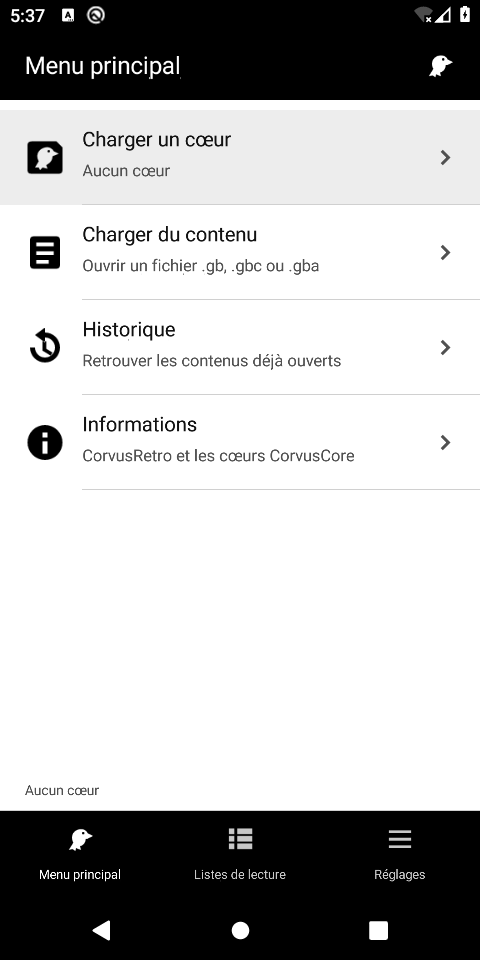
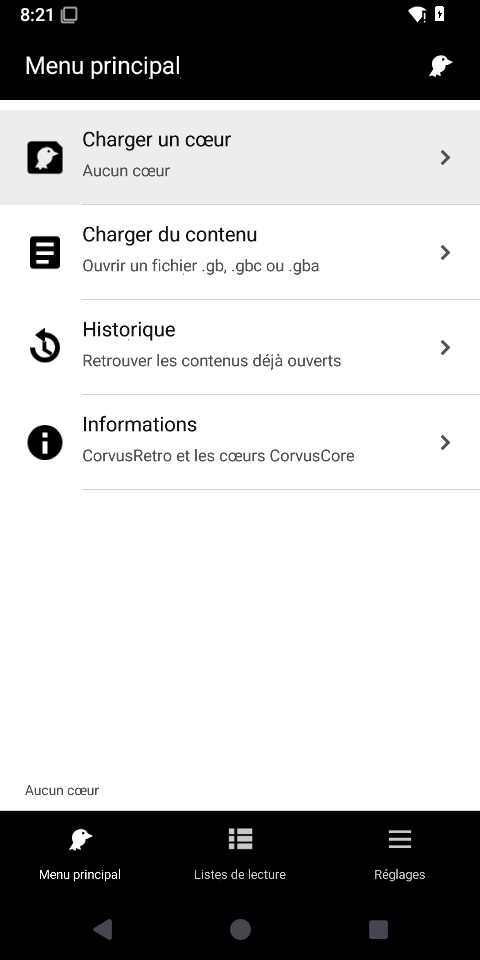
Fix Android system bar insets and remove obsolete dark theme

diff --git a/app/src/main/java/com/corvussoftware/corvusretro/MainActivity.java b/app/src/main/java/com/corvussoftware/corvusretro/MainActivity.java
@@ -8,10 +8,15 @@ import android.content.Intent;
 import android.graphics.Bitmap;
 import android.graphics.Canvas;
 import android.graphics.Color;
+import android.graphics.Insets;
 import android.graphics.Paint;
 import android.graphics.Typeface;
 import android.graphics.drawable.Drawable;
+import android.os.Build;
 import android.os.Bundle;
+import android.view.DisplayCutout;
+import android.view.View;
+import android.view.WindowInsets;
 import android.view.WindowManager;
 import java.io.ByteArrayOutputStream;
 import java.io.IOException;
@@ -38,6 +43,8 @@ public final class MainActivity extends NativeActivity {
     private boolean pickerOpen;
     private boolean copying;
     private int pickerSystem;
+    // Immutable snapshot published by the UI thread, read by the native render thread.
+    private volatile int[] windowArea;
 
     private static native void imported(String id, String title, int system, String path, String error);
 
@@ -49,7 +56,48 @@ public final class MainActivity extends NativeActivity {
             pickerSystem = state.getInt("picker_system", 0);
         }
         super.onCreate(state);
+        View decor = getWindow().getDecorView();
+        // Use the same full-window coordinate space on Android 8 through Android 15+.
+        // The C renderer reserves the system-provided safe area inside that surface.
+        decor.setSystemUiVisibility(decor.getSystemUiVisibility()
+                | View.SYSTEM_UI_FLAG_LAYOUT_STABLE | View.SYSTEM_UI_FLAG_LAYOUT_FULLSCREEN
+                | View.SYSTEM_UI_FLAG_LAYOUT_HIDE_NAVIGATION);
+        if (Build.VERSION.SDK_INT >= 28) {
+            WindowManager.LayoutParams attributes = getWindow().getAttributes();
+            attributes.layoutInDisplayCutoutMode = WindowManager.LayoutParams.LAYOUT_IN_DISPLAY_CUTOUT_MODE_SHORT_EDGES;
+            getWindow().setAttributes(attributes);
+        }
+        decor.setOnApplyWindowInsetsListener((view, insets) -> {
+            publishWindowArea(view, insets);
+            return insets;
+        });
+        decor.requestApplyInsets();
     }
+    @Override public void onGlobalLayout() {
+        super.onGlobalLayout();
+        View decor = getWindow().getDecorView();
+        WindowInsets insets = decor.getRootWindowInsets();
+        if (insets != null) publishWindowArea(decor, insets);
+    }
+    private void publishWindowArea(View decor, WindowInsets insets) {
+        int left, top, right, bottom;
+        if (Build.VERSION.SDK_INT >= 30) {
+            Insets safe = insets.getInsetsIgnoringVisibility(WindowInsets.Type.systemBars() | WindowInsets.Type.displayCutout());
+            left = safe.left; top = safe.top; right = safe.right; bottom = safe.bottom;
+        } else {
+            left = insets.getStableInsetLeft(); top = insets.getStableInsetTop();
+            right = insets.getStableInsetRight(); bottom = insets.getStableInsetBottom();
+            DisplayCutout cutout = Build.VERSION.SDK_INT >= 28 ? insets.getDisplayCutout() : null;
+            if (Build.VERSION.SDK_INT >= 28 && cutout != null) {
+                left = Math.max(left, cutout.getSafeInsetLeft()); top = Math.max(top, cutout.getSafeInsetTop());
+                right = Math.max(right, cutout.getSafeInsetRight()); bottom = Math.max(bottom, cutout.getSafeInsetBottom());
+            }
+        }
+        int width = decor.getWidth(), height = decor.getHeight();
+        if (width > left + right && height > top + bottom)
+            windowArea = new int[] {width, height, left, top, right, bottom};
+    }
+    public int[] safeWindowArea() { return windowArea; }
     @Override protected void onSaveInstanceState(Bundle state) {
         state.putBoolean("picker", pickerOpen); state.putInt("picker_system", pickerSystem);
         super.onSaveInstanceState(state);
@@ -81,7 +129,10 @@ public final class MainActivity extends NativeActivity {
             if ("theme".equals(key)) {
                 String value = library.preferences.getString(key, "corvus");
                 if ("shield".equals(value)) return 0;
-                if ("dark".equals(value)) return 1;
+                if ("dark".equals(value)) {
+                    library.preferences.edit().putString(key, "corvus").apply();
+                    return 2;
+                }
                 if ("corvus".equals(value)) return 2;
                 if ("asus".equals(value)) return 3;
                 return fallback;
@@ -92,8 +143,8 @@ public final class MainActivity extends NativeActivity {
     }
     public void preferenceSet(String key, int value) {
         if ("theme".equals(key)) {
-            String[] values = {"shield", "dark", "corvus", "asus"};
-            library.preferences.edit().putString(key, value >= 0 && value < values.length ? values[value] : "corvus").apply();
+            String selected = value == 0 ? "shield" : value == 3 ? "asus" : "corvus";
+            library.preferences.edit().putString(key, selected).apply();
         }
         else if ("audio".equals(key) || "keep_awake".equals(key)) library.preferences.edit().putBoolean(key, value != 0).apply();
         else library.preferences.edit().putInt(key, value).apply();

diff --git a/app/src/main/cpp/android_backend.c b/app/src/main/cpp/android_backend.c
@@ -2,6 +2,7 @@
 // Copyright (C) 2026 CorvusSoftware
 // SPDX-License-Identifier: AGPL-3.0-only
 #include "android_backend.h"
+#include "viewport.h"
 #include "engine.h"
 #include <android/bitmap.h>
 #include <android/log.h>
@@ -109,6 +110,7 @@ bool cr_android_init(cr_android *p, struct android_app *app) {
     if (clear_error(p) || !p->field)                                                               \
     return false
     METHOD(density, "density", "()F");
+    METHOD(safe_area, "safeWindowArea", "()[I");
     METHOD(atlas, "atlas", "()Landroid/graphics/Bitmap;");
     METHOD(advances, "advances", "()[F");
     METHOD(glyph, "glyph", "(I)Landroid/graphics/Bitmap;");
@@ -575,13 +577,28 @@ static void game(void *ctx, const uint32_t *pixels, int width, int height, float
     glBindTexture(GL_TEXTURE_2D, g->atlas);
     glUniform1f(g->mode, 0);
 }
-void cr_gl_begin(cr_gl *g) {
+void cr_gl_begin(cr_gl *g, uint32_t system_bar) {
     eglQuerySurface(g->display, g->surface, EGL_WIDTH, &g->full_width);
     eglQuerySurface(g->display, g->surface, EGL_HEIGHT, &g->full_height);
-    ARect r = g->platform->app->contentRect;
-    if (r.right <= r.left || r.bottom <= r.top || r.right > g->full_width ||
-        r.bottom > g->full_height)
-        r = (ARect){0, 0, g->full_width, g->full_height};
+    cr_android *p = g->platform;
+    ARect content = p->app->contentRect;
+    jint area[6];
+    jintArray snapshot = (*p->env)->CallObjectMethod(p->env, p->app->activity->clazz, p->safe_area);
+    bool valid = !clear_error(p) && snapshot && (*p->env)->GetArrayLength(p->env, snapshot) == 6;
+    if (valid) {
+        (*p->env)->GetIntArrayRegion(p->env, snapshot, 0, 6, area);
+        valid = !clear_error(p);
+    }
+    if (snapshot)
+        (*p->env)->DeleteLocalRef(p->env, snapshot);
+    cr_rect r = cr_viewport(g->full_width, g->full_height, valid ? area : NULL,
+                            (cr_rect){content.left, content.top, content.right, content.bottom});
+#ifndef NDEBUG
+    if (g->left != r.left || g->top != r.top || g->pixel_width != r.right - r.left ||
+        g->pixel_height != r.bottom - r.top)
+        __android_log_print(ANDROID_LOG_DEBUG, "CorvusRetro", "viewport surface=%dx%d safe=%d,%d,%d,%d",
+                            g->full_width, g->full_height, r.left, r.top, r.right, r.bottom);
+#endif
     g->left = r.left;
     g->top = r.top;
     g->pixel_width = r.right - r.left;
@@ -590,7 +607,8 @@ void cr_gl_begin(cr_gl *g) {
     g->width = g->pixel_width / g->density;
     g->height = g->pixel_height / g->density;
     glDisable(GL_SCISSOR_TEST);
-    glClearColor(0, 0, 0, 1);
+    glClearColor(((system_bar >> 16) & 255) / 255.f, ((system_bar >> 8) & 255) / 255.f,
+                 (system_bar & 255) / 255.f, 1);
     glClear(GL_COLOR_BUFFER_BIT);
     glViewport(g->left, g->full_height - r.bottom, g->pixel_width, g->pixel_height);
     glUseProgram(g->program);

diff --git a/app/src/main/cpp/theme.c b/app/src/main/cpp/theme.c
@@ -2,7 +2,7 @@
 // Copyright (C) 2026 CorvusSoftware
 // SPDX-License-Identifier: AGPL-3.0-only
 #include "theme.h"
-static const cr_theme themes[CR_THEME_COUNT] = {
+static const cr_theme themes[CR_THEME_ASUS + 1] = {
     [CR_THEME_SHIELD] = {.name = "NVIDIA Shield",
                          .description = "Noir et vert",
                          .background = 0xff121212,
@@ -24,27 +24,6 @@ static const cr_theme themes[CR_THEME_COUNT] = {
                          .control_text = 0xffdedede,
                          .control_pressed_text = 0xff101a08,
                          .system_bar = 0xff000000},
-    [CR_THEME_DARK] = {.name = "MaterialUI sombre",
-                       .description = "Anthracite et bleu",
-                       .background = 0xff202124,
-                       .header = 0xff292b30,
-                       .surface = 0xff292b30,
-                       .navigation = 0xff292b30,
-                       .text = 0xfff1f3f4,
-                       .muted = 0xffa4abb5,
-                       .accent = 0xff81c7ff,
-                       .icon = 0xffa4abb5,
-                       .divider = 0xff36383e,
-                       .focus = 0xff243b50,
-                       .header_text = 0xfff1f3f4,
-                       .header_hint = 0xffa4abb5,
-                       .header_icon = 0xff81c7ff,
-                       .navigation_active = 0xff81c7ff,
-                       .navigation_passive = 0xffa4abb5,
-                       .control = 0xcc40444b,
-                       .control_text = 0xfff1f3f4,
-                       .control_pressed_text = 0xff101820,
-                       .system_bar = 0xff292b30},
     [CR_THEME_CORVUS] = {.name = "CorvusRetro",
                          .description = "Bleu nuit et violet du corbeau",
                          .background = 0xff090d14,
@@ -88,11 +67,11 @@ static const cr_theme themes[CR_THEME_COUNT] = {
                        .control_pressed_text = 0xffffffff,
                        .system_bar = 0xff000000}};
 int cr_theme_valid(int id) {
-    return id >= 0 && id < CR_THEME_COUNT ? id : CR_THEME_CORVUS;
+    return id == CR_THEME_SHIELD || id == CR_THEME_CORVUS || id == CR_THEME_ASUS ? id
+                                                                                 : CR_THEME_CORVUS;
 }
 int cr_theme_at(int index) {
-    static const int order[CR_THEME_COUNT] = {CR_THEME_CORVUS, CR_THEME_SHIELD, CR_THEME_DARK,
-                                              CR_THEME_ASUS};
+    static const int order[CR_THEME_COUNT] = {CR_THEME_CORVUS, CR_THEME_SHIELD, CR_THEME_ASUS};
     return index >= 0 && index < CR_THEME_COUNT ? order[index] : CR_THEME_CORVUS;
 }
 const cr_theme *cr_theme_get(int id) {

diff --git a/tests/native_viewport_test.c b/tests/native_viewport_test.c
@@ -1,0 +1,39 @@
+// CorvusRetro - CorvusSoftware
+// Copyright (C) 2026 CorvusSoftware
+// SPDX-License-Identifier: AGPL-3.0-only
+#include "viewport.h"
+#include <stdio.h>
+#include <stdlib.h>
+static void check(cr_rect r, int left, int top, int right, int bottom, const char *message) {
+    if (r.left != left || r.top != top || r.right != right || r.bottom != bottom) {
+        fprintf(stderr, "FAIL %s: %d,%d,%d,%d\n", message, r.left, r.top, r.right, r.bottom);
+        exit(1);
+    }
+}
+int main(void) {
+    cr_rect full = {0, 0, 576, 1280};
+    int portrait[] = {576, 1280, 0, 36, 0, 72};
+    check(cr_viewport(576, 1280, portrait, full), 0, 36, 576, 1208,
+          "status and three-button navigation excluded from full NativeActivity surface");
+    int gesture[] = {576, 1280, 0, 54, 0, 24};
+    check(cr_viewport(576, 1280, gesture, full), 0, 54, 576, 1256,
+          "top cutout and gesture navigation use system pixel dimensions");
+    int landscape[] = {1280, 576, 54, 24, 72, 0};
+    check(cr_viewport(1280, 576, landscape, (cr_rect){0, 0, 1280, 576}), 54, 24, 1208, 576,
+          "landscape cutout and navigation reserve both sides");
+    check(cr_viewport(1280, 576, portrait, (cr_rect){0, 24, 1208, 576}), 0, 24, 1208, 576,
+          "rotation rejects stale portrait snapshot");
+    int no_bars[] = {480, 870, 0, 0, 0, 0};
+    check(cr_viewport(480, 870, no_bars, (cr_rect){0, 30, 480, 900}), 0, 0, 480, 870,
+          "already inset surface has no duplicate margins");
+    int invalid[] = {576, 1280, -1, 36, 0, 72};
+    check(cr_viewport(576, 1280, invalid, full), 0, 0, 576, 1280, "negative inset rejected");
+    invalid[2] = 576;
+    check(cr_viewport(576, 1280, invalid, full), 0, 0, 576, 1280, "empty safe area rejected");
+    check(cr_viewport(576, 1280, NULL, (cr_rect){0, 36, 576, 1208}), 0, 36, 576, 1208,
+          "initial NativeActivity content rectangle used before inset delivery");
+    check(cr_viewport(576, 1280, NULL, (cr_rect){0, 0, 0, 0}), 0, 0, 576, 1280,
+          "empty initial content rectangle handled");
+    puts("PASS native viewport");
+    return 0;
+}

diff --git a/tests/native_frontend_test.c b/tests/native_frontend_test.c
@@ -2,6 +2,7 @@
 // Copyright (C) 2026 CorvusSoftware
 // SPDX-License-Identifier: AGPL-3.0-only
 #include "frontend.h"
+#include "viewport.h"
 #include <stdio.h>
 #include <stdlib.h>
 #include <string.h>
@@ -41,7 +42,13 @@ int main(void) {
     check(u.theme == CR_THEME_CORVUS, "logo palette is the default without saved preference");
     check(cr_theme_valid(-1) == CR_THEME_CORVUS && cr_theme_valid(99) == CR_THEME_CORVUS,
           "unknown themes fall back safely");
-    check(CR_THEME_SHIELD == 0 && CR_THEME_DARK == 1, "published theme IDs retain compatibility");
+    check(CR_THEME_SHIELD == 0 && CR_THEME_CORVUS == 2 && CR_THEME_ASUS == 3,
+          "remaining published theme IDs retain compatibility");
+    check(cr_theme_valid(1) == CR_THEME_CORVUS, "retired theme falls back to Corvus");
+    check(CR_THEME_COUNT == 3 && cr_theme_at(0) == CR_THEME_CORVUS &&
+              cr_theme_at(1) == CR_THEME_SHIELD && cr_theme_at(2) == CR_THEME_ASUS &&
+              cr_theme_at(3) == CR_THEME_CORVUS,
+          "three active themes only");
     tap(&u, 100, 100);
     check(u.page == CR_CORES, "touch opens native core list");
     cr_ui_move(&u, 1);
@@ -63,11 +70,11 @@ int main(void) {
     check(u.page == CR_SETTINGS, "native bottom tab");
     tap(&u, 100, 100);
     check(u.page == CR_THEMES, "native theme list");
-    tap(&u, 100, 252);
-    check(theme == CR_THEME_DARK && u.theme == CR_THEME_DARK && u.page == CR_SETTINGS,
-          "legacy dark selection remains stable");
+    tap(&u, 100, 176);
+    check(theme == CR_THEME_SHIELD && u.theme == CR_THEME_SHIELD && u.page == CR_SETTINGS,
+          "Shield selection remains stable");
     tap(&u, 100, 100);
-    tap(&u, 100, 328);
+    tap(&u, 100, 252);
     check(theme == CR_THEME_ASUS && u.theme == CR_THEME_ASUS, "ASUS is selectable and saved");
     tap(&u, 100, 100);
     tap(&u, 100, 100);

diff --git a/app/src/main/cpp/viewport.c b/app/src/main/cpp/viewport.c
@@ -1,0 +1,16 @@
+// CorvusRetro - CorvusSoftware
+// Copyright (C) 2026 CorvusSoftware
+// SPDX-License-Identifier: AGPL-3.0-only
+#include "viewport.h"
+cr_rect cr_viewport(int width, int height, const int area[6], cr_rect content) {
+    /* Reject snapshots from before a rotation instead of applying stale side insets. */
+    if (area && area[0] == width && area[1] == height && area[2] >= 0 && area[3] >= 0 &&
+        area[4] >= 0 && area[5] >= 0 && area[2] < width && area[3] < height &&
+        area[4] < width - area[2] && area[5] < height - area[3])
+        return (cr_rect){area[2], area[3], width - area[4], height - area[5]};
+    /* NativeActivity contentRect is only a fallback before Java receives insets. */
+    if (content.left >= 0 && content.top >= 0 && content.right > content.left &&
+        content.bottom > content.top && content.right <= width && content.bottom <= height)
+        return content;
+    return (cr_rect){0, 0, width, height};
+}

diff --git a/app/src/main/cpp/android_backend.h b/app/src/main/cpp/android_backend.h
@@ -13,7 +13,7 @@ typedef struct {
     JNIEnv *env;
     jclass cls;
     bool attached;
-    jmethodID density, atlas, advances, glyph, advance, games, root, credits, preference,
+    jmethodID density, safe_area, atlas, advances, glyph, advance, games, root, credits, preference,
         set_preference, pick, finish, touch, appearance, quit;
 } cr_android;
 typedef struct {
@@ -42,7 +42,7 @@ void cr_android_root(cr_android *, char *, size_t);
 bool cr_android_import(cr_import *);
 bool cr_gl_init(cr_gl *, cr_android *);
 void cr_gl_destroy(cr_gl *);
-void cr_gl_begin(cr_gl *);
+void cr_gl_begin(cr_gl *, uint32_t system_bar);
 bool cr_gl_end(cr_gl *);
 cr_painter cr_gl_painter(cr_gl *);
 #endif

diff --git a/app/src/main/cpp/frontend.c b/app/src/main/cpp/frontend.c
@@ -759,7 +759,7 @@ void cr_ui_draw(cr_ui *u, const cr_painter *p) {
         if (u->page == CR_ABOUT)
             u->text_height =
                 paragraphs(p,
-                           "CorvusRetro 0.6.0\n\nFrontend original en C, rendu OpenGL ES et audio "
+                           "CorvusRetro 0.7.0\n\nFrontend original en C, rendu OpenGL ES et audio "
                            "AAudio.\n\nCorvusSoftware\nCœurs CorvusCore 0.14.0 : Game Boy, Game "
                            "Boy Color, Game Boy Advance (expérimental).\n\nNavigation inspirée de "
                            "MaterialUI. Thèmes CorvusRetro, ASUS, NVIDIA Shield et "

diff --git a/app/src/main/cpp/theme.h b/app/src/main/cpp/theme.h
@@ -4,8 +4,8 @@
 #ifndef CORVUS_THEME_H
 #define CORVUS_THEME_H
 #include <stdint.h>
-/* Published IDs 0/1 must keep their stored meaning. */
-enum { CR_THEME_SHIELD, CR_THEME_DARK, CR_THEME_CORVUS, CR_THEME_ASUS, CR_THEME_COUNT };
+/* Published IDs stay stable; retired ID 1 falls back to CorvusRetro. */
+enum { CR_THEME_SHIELD = 0, CR_THEME_CORVUS = 2, CR_THEME_ASUS = 3, CR_THEME_COUNT = 3 };
 typedef struct {
     const char *name, *description;
     uint32_t background, header, surface, navigation;

diff --git a/app/src/main/cpp/native_main.c b/app/src/main/cpp/native_main.c
@@ -289,7 +289,7 @@ void android_main(struct android_app *app) {
             }
         }
         if (a->window && a->resumed) {
-            cr_gl_begin(&a->gl);
+            cr_gl_begin(&a->gl, cr_theme_get(a->ui.theme)->system_bar);
             if (fabsf(a->ui.width - a->gl.width) > .1f || fabsf(a->ui.height - a->gl.height) > .1f)
                 cr_ui_size(&a->ui, a->gl.width, a->gl.height);
             cr_ui_update(&a->ui, time - a->last_draw);

diff --git a/app/src/main/cpp/viewport.h b/app/src/main/cpp/viewport.h
@@ -1,0 +1,11 @@
+// CorvusRetro - CorvusSoftware
+// Copyright (C) 2026 CorvusSoftware
+// SPDX-License-Identifier: AGPL-3.0-only
+#ifndef CORVUS_VIEWPORT_H
+#define CORVUS_VIEWPORT_H
+typedef struct {
+    int left, top, right, bottom;
+} cr_rect;
+/* area: full window width/height, then safe insets left/top/right/bottom, in pixels. */
+cr_rect cr_viewport(int width, int height, const int area[6], cr_rect content);
+#endif

diff --git a/.aicode/project.md b/.aicode/project.md
@@ -1,6 +1,6 @@
 # CorvusRetro
 
-Version 0.6 : frontend original C11 avec NativeActivity. L'utilisateur exige l'approche native C/C++ de RetroArch ; ne pas réintroduire de menus Java.
+Version 0.7 : frontend original C11 avec NativeActivity. L'utilisateur exige l'approche native C/C++ de RetroArch ; ne pas réintroduire de menus Java.
 
 - `frontend.c` : menus, thèmes, navigation, association fichier/système et commandes.
 - `native_main.c` : Looper, cycle Android et cadence ; `android_backend.c` : JNI des services, EGL, GLES2, atlas et cache de glyphes.
@@ -9,8 +9,10 @@ Version 0.6 : frontend original C11 avec NativeActivity. L'utilisateur exige l'a
 - Java limité à MainActivity/NativeActivity et GameLibrary : SAF, stockage/index/préférences compatibles 0.4, ressources et polices Android. Aucun menu, widget applicatif ou moteur Java.
 - JNI import enregistré par System.loadLibrary ; événement gardé avant publication du Looper. `finishImport(ZI)String` commit après validation C ; le suffixe d'ID suit le système résolu en C.
 - Batterie : .new/fsync/rename puis génération acquittée. Échec disque : conserver le moteur pour une nouvelle tentative. Sauvegarder avant de relire la batterie lors d'une réouverture du même jeu.
-- Catalogue C theme.c/h : IDs stables0Shield/1Dark/2Corvus/3ASUS, affichage Corvus/Shield/Dark/ASUS. Corvus par défaut si préférence absente/inconnue ; préserver choix explicites. Palettes en-tête, nav, contrôle et texte séparées pour ASUS clair. Java applique seulement la couleur ARGB de barre décidée en C.
+- Catalogue C theme.c/h : IDs stables0Shield/2Corvus/3ASUS, affichage Corvus/Shield/ASUS ; ID1 retiré. Corvus par défaut si préférence absente/inconnue ; ancien dark migré vers corvus, autres choix conservés. Palettes en-tête, nav, contrôle et texte séparées pour ASUS clair. Java applique seulement la couleur ARGB de barre décidée en C.
 - Thème Corvus bleu nuit/violet inspiré du logo fourni ; ASUS noir/blanc du logotype (référence Simple Icons14.0.0, siteASUS bloqué par le réseau). Icônes originales à tête de corbeau. Aucun tiret Unicode long dans les fichiers du dépôt parent ; sous-module intact et crédits CorvusCore/NDK/Gradle conservés.
-- Tests : `make test CMAKE=...` et `SANITIZE=ON` (notre C portable instrumenté, SDK non instrumenté), Gradle assembleDebug/lintDebug. CTest native_engine/native_frontend, aucune JVM pour les tests hôtes.
+- Tests : `make test CMAKE=...` et `SANITIZE=ON` (notre C portable instrumenté, SDK non instrumenté), Gradle assembleDebug/lintDebug. CTest native_engine/native_frontend/native_viewport, aucune JVM pour les tests hôtes.
 - Pins : Gradle 8.13, AGP 8.9.1, SDK 35, min 26, NDK 27.2.12479018, CMake 3.22.1, Java17/JDK21. ARM64 et x86_64.
-- Preuves et limites dans docs/validation-android.md. Menus OpenGL sans arbre TalkBack ; pas de téléphone physique ou d'Android récent validé.
+- Preuves et limites dans docs/validation-android.md. Menus OpenGL sans arbre TalkBack ; émulateurs Android10 et15 exercés, pas de téléphone physique ou d'exécution ARM64 validée.
+
+Version0.7 : NativeActivity en coordonnées fenêtre entière, marges WindowInsets système/cutout publiées par snapshot immuable Java vers C ; viewport.c valide dimensions et origine commune OpenGL/tactile. Thèmes actifs IDs0Shield/2Corvus/3ASUS, ID1 retiré ; clé dark migrée vers corvus.
